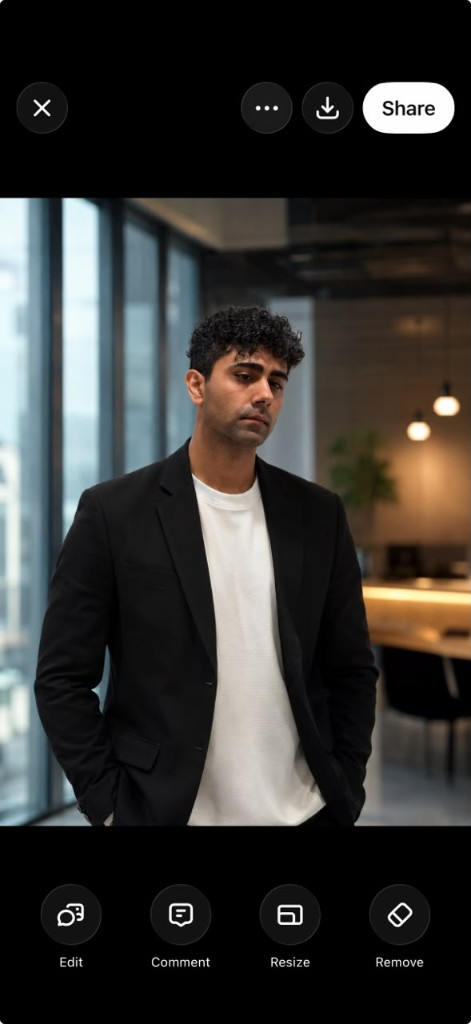
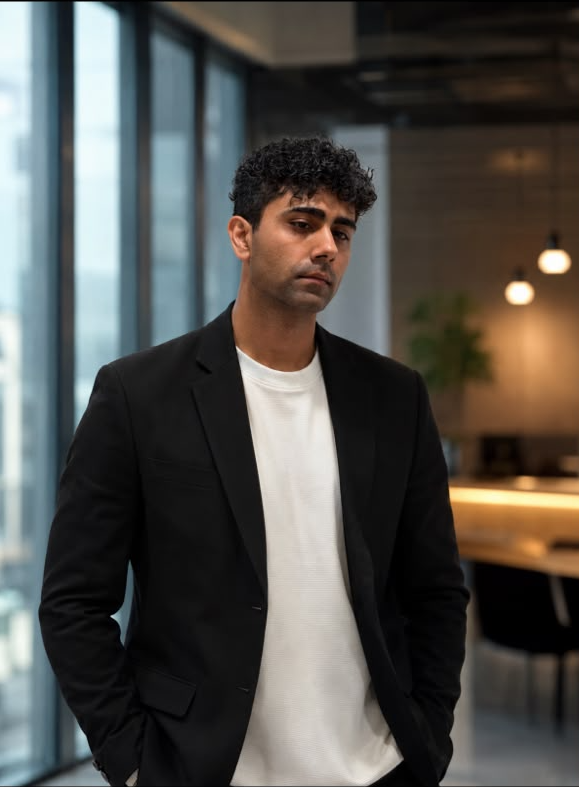
Update About page content and improve navigation
- Changed the "About" link text to "About us" in the Footer and LandingPage components for clarity.
- Updated founder bios to include "at Snaptix" for consistency and branding.
- Enhanced the About page headings and descriptions to prominently feature the product name, improving brand visibility.
- Added a new link to the About page in the LandingPage for better navigation.

diff --git a/frontend/src/app/about/page.tsx b/frontend/src/app/about/page.tsx
@@ -34,7 +34,7 @@ const FOUNDERS = [
     name: "Rishav Bhardwaj",
     role: "Co-Founder",
     image: "/founders/rishav-bhardwaj.png",
-    bio: "Driving product vision and go-to-market strategy — turning spreadsheet chaos into a category-defining decision platform for operators worldwide.",
+    bio: "Driving product vision and go-to-market at Snaptix — turning spreadsheet chaos into a category-defining decision platform for operators worldwide.",
   },
   {
     name: "Akshay Bhardwaj",
@@ -46,7 +46,7 @@ const FOUNDERS = [
     name: "Mayank Tyagi",
     role: "Co-Founder",
     image: "/founders/mayank-tyagi.png",
-    bio: "Shaping customer experience and growth — ensuring every upload becomes clarity, every briefing becomes action, and every team moves faster with confidence.",
+    bio: "Shaping customer experience and growth at Snaptix — ensuring every upload becomes clarity, every briefing becomes action, and every team moves faster with confidence.",
   },
 ] as const;
 
@@ -90,7 +90,7 @@ function FounderCard({
           <div className="pointer-events-none absolute inset-0 bg-gradient-to-t from-slate-950/75 via-slate-950/10 to-transparent" />
           <div className="absolute bottom-0 left-0 right-0 p-6">
             <p className="text-[10px] font-semibold uppercase tracking-[0.22em] text-emerald-300/90">
-              {founder.role}
+              Co-Founder · {PRODUCT_NAME}
             </p>
             <h3
               className={cn(
@@ -131,7 +131,7 @@ export default function AboutPage() {
         <div className="pointer-events-none absolute -right-24 top-20 h-72 w-72 rounded-full bg-emerald-200/30 blur-3xl dark:bg-emerald-500/10" />
         <div className="relative mx-auto max-w-4xl px-4 py-16 text-center sm:px-6 md:py-24">
           <p className="text-[11px] font-semibold uppercase tracking-[0.28em] text-slate-500 dark:text-slate-400">
-            About {PRODUCT_NAME}
+            About Snaptix
           </p>
           <h1
             className={cn(
@@ -139,11 +139,12 @@ export default function AboutPage() {
               "fade-up mt-5 text-balance text-4xl leading-[1.05] text-slate-900 dark:text-white md:text-5xl lg:text-6xl",
             )}
           >
-            Reimagining how businesses turn data into decisions
+            The team building {PRODUCT_NAME}
           </h1>
           <p className="fade-up mx-auto mt-6 max-w-2xl text-[17px] leading-8 text-slate-600 dark:text-slate-300">
-            {PRODUCT_NAME} is building the intelligence layer for spreadsheet-first
-            organizations — {POSITIONING_LINE.toLowerCase()}. {PRODUCT_TAGLINE}
+            <strong className="font-semibold text-slate-900 dark:text-white">{PRODUCT_NAME}</strong>{" "}
+            is the AI business analyst for spreadsheet-first teams — {POSITIONING_LINE.toLowerCase()}.{" "}
+            {PRODUCT_TAGLINE}
           </p>
         </div>
       </section>
@@ -165,7 +166,7 @@ export default function AboutPage() {
           </p>
           <p className="mt-5 max-w-3xl text-[15px] leading-7 text-slate-600 dark:text-slate-300">
             Most companies do not fail from lack of information — they fail from delayed
-            clarity. Snaptix transforms familiar spreadsheets into automated dashboards,
+            clarity. {PRODUCT_NAME} transforms familiar spreadsheets into automated dashboards,
             executive briefings, and grounded answers so operators, finance teams, and
             founders can move with strategic velocity every single week.
           </p>
@@ -185,12 +186,12 @@ export default function AboutPage() {
                 "mt-4 text-3xl text-slate-900 dark:text-white md:text-4xl",
               )}
             >
-              Meet the founders
+              Meet the founders of {PRODUCT_NAME}
             </h2>
             <p className="mt-4 text-[15px] leading-7 text-slate-600 dark:text-slate-300">
-              Three builders united by one conviction: the future of business intelligence
-              is AI-native, spreadsheet-native, and built for the people who actually run
-              the numbers.
+              Three builders behind {PRODUCT_NAME} — united by one conviction: the future
+              of business intelligence is AI-native, spreadsheet-native, and built for the
+              people who actually run the numbers.
             </p>
           </div>
 
@@ -234,10 +235,10 @@ export default function AboutPage() {
               "text-3xl text-slate-900 dark:text-white md:text-4xl",
             )}
           >
-            Join us on the journey
+            Join the {PRODUCT_NAME} journey
           </h2>
           <p className="mt-4 text-[15px] leading-7 text-slate-600 dark:text-slate-300">
-            We are just getting started — and we are building for the teams who believe
+            We are just getting started — building {PRODUCT_NAME} for teams who believe
             better decisions should not wait for better tools.
           </p>
           <div className="mt-8 flex flex-wrap items-center justify-center gap-4">

diff --git a/frontend/src/app/page.tsx b/frontend/src/app/page.tsx
@@ -440,7 +440,7 @@ function Footer() {
             Pricing
           </Link>
           <Link href="/about" className="hover:text-slate-900 dark:hover:text-white">
-            About
+            About us
           </Link>
           <ContactFooterLinks />
           <Link href="/privacy" className="hover:text-slate-900 dark:hover:text-white">
@@ -593,6 +593,9 @@ export default function LandingPage() {
               </Link>
               <Link href="/pricing" className="hover:text-slate-900 dark:hover:text-white">
                 Pricing
+              </Link>
+              <Link href="/about" className="hover:text-slate-900 dark:hover:text-white">
+                About us
               </Link>
               <Link href="/help" className="hover:text-slate-900 dark:hover:text-white">
                 Help